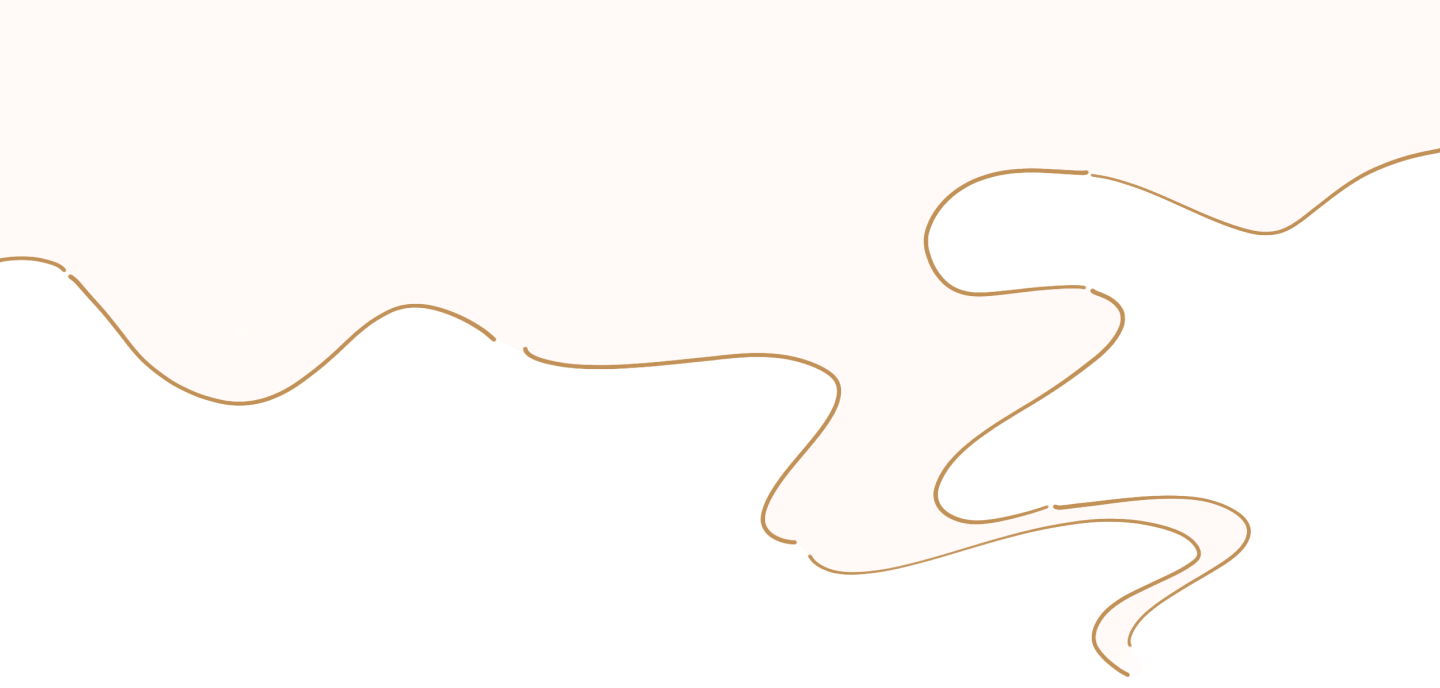
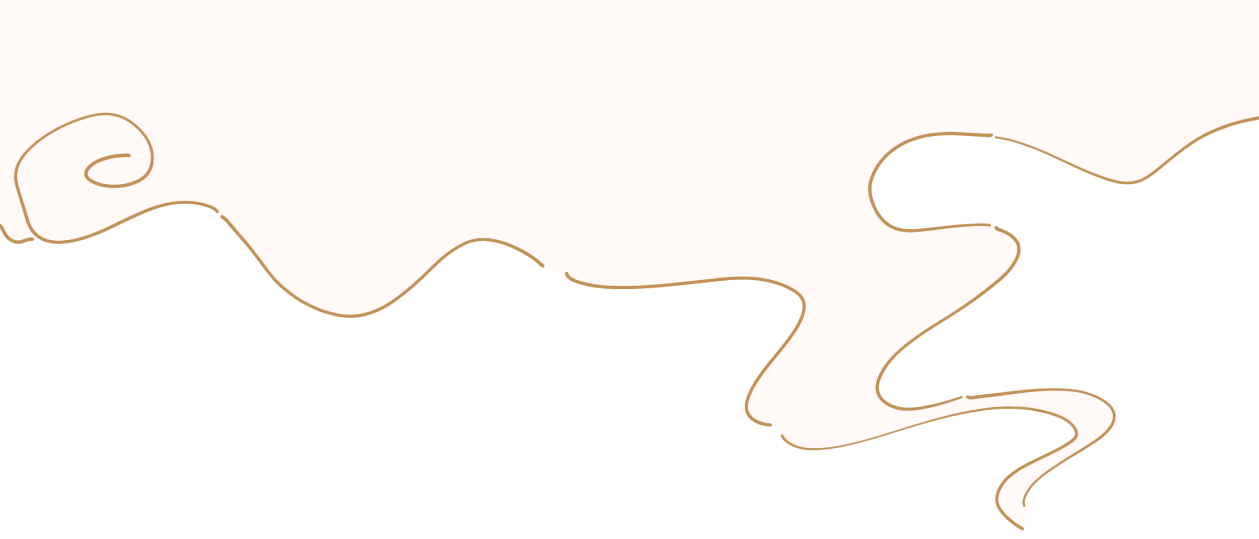
Added textured background

diff --git a/app/(pre-dashboard)/(landing)/sections/Hero/Hero.tsx b/app/(pre-dashboard)/(landing)/sections/Hero/Hero.tsx
@@ -53,10 +53,13 @@ export default function Hero() {
   return (
     <>
       <Navbar />
-      <div className="w-full h-full bg-[#ddc78b] flex justify-center items-center">
+      <div
+        className="w-full h-full flex justify-center items-center
+        bg-[url('/landing/S2025/texture-background.png')] bg-cover bg-center bg-no-repeat"
+      >
         <div
           className="relative flex w-full flex-col items-center justify-center
-           overflow-hidden sm:flex sm:h-[100vh] sm:flex-row-reverse max-w-[1100px]"
+           sm:flex sm:h-[100vh] sm:flex-row-reverse max-w-[1100px]"
           id="Home"
         >
           <div className='relative flex w-full justify-center'>
@@ -70,12 +73,19 @@ export default function Hero() {
                     height="2000"
                     priority
                   />
+                  <Image
+                    src="/landing/S2025/smoke.png"
+                    alt="smoke"
+                    width="2000"
+                    height="2000"
+                    className="absolute -top-0 -left-32  sm:scale-[1.8] sm:-top-48 sm:-left-72 md:scale-[1.8]"
+                  />
                 </div>
               </div>
             </div>
 
           </div>
-          <div className="relative flex flex-col items-center justify-center h-auto z-20">
+          <div className="relative flex flex-col items-center justify-center h-auto z-20 mb-40">
             <div
               className="relative left-0 top-0 h-auto w-[790px]
             xs:max-w-[320px] sm:max-w-[576px] md:w-[500px]
@@ -109,7 +119,7 @@ export default function Hero() {
                 <button
                   className="z-30 items-center justify-center relative
                 bg-transparent text-sm text-[#C3557D]
-                transition-all duration-100 hover:drop-shadow-[0_0_20px_#C3557D]
+                transition-all duration-100 hover:drop-shadow-[0_0_10px_#62a99d]
                 xs:h-[26px] xs:w-[99px]
                 sm:h-[45px] sm:w-[179px]
                 sm:text-lg md:h-[37px]

diff --git a/app/(pre-dashboard)/(landing)/sections/Hero/Navbar.tsx b/app/(pre-dashboard)/(landing)/sections/Hero/Navbar.tsx
@@ -111,7 +111,7 @@ function Navbar() {
 
   return (
     <div
-      className={`z-40 flex w-full justify-end bg-gradient-to-b from-blue-500 to-transparent
+      className={`z-40 flex w-full justify-end
         md:fixed ${longCang.className}`}
       id="navbar"
     >
@@ -146,7 +146,14 @@ function Navbar() {
         w-full justify-end bg-gradient-to-b pr-2 pt-4 text-sm font-light sm:pr-4 sm:pt-6 sm:text-base md:pr-6 md:pt-8 md:text-lg lg:flex lg:pr-8 lg:pt-10 lg:text-xl"
       >
         {isHomePage && (
-          <div className="flex items-center justify-start">
+          <div className="flex items-center justify-start relative">
+            <Image
+              src="/landing/S2025/navbar-header.png"
+              alt="Navigation background"
+              width={1200}
+              height={150}
+              className="absolute -z-10 right-0 -top-10 scale-110"
+            />
             {sections.map((section) => (
               <button
                 style={{

diff --git a/app/ui/global.css b/app/ui/global.css
@@ -68,7 +68,7 @@ input[type='number']::-webkit-outer-spin-button {
 #Home {
   /* radial gradient what is this code?!*/
   /* background-image: radial-gradient(circle, #141719, #141719,#141719,#141719, #141719); */
-  background-color: #ddc78b;
+  /* background-color: #ddc78b; */
 }
 
 #entry-radial {
